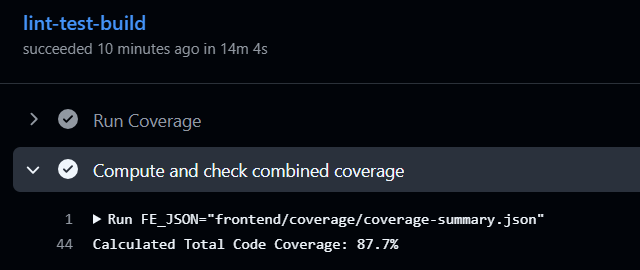
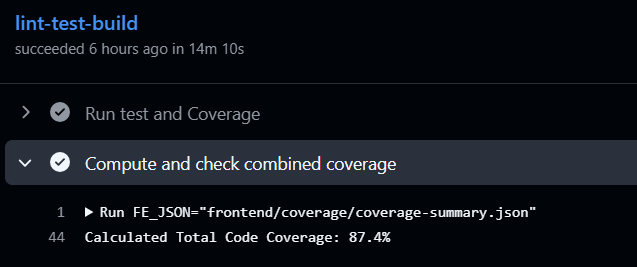
test: nfr testing update

diff --git a/docs/demo-4/SAS.md b/docs/demo-4/SAS.md
@@ -197,7 +197,7 @@ This pattern applies wherever an object behaves differently depending on what ph
 | **NFR3.3** | Use HTTPS (TLS 1.3) for all data transmission | Azure Container Apps Managed Certificates & SSL Termination | Qualys SSL Server Test | Grade A (TLS 1.3 Active) / Pass |
 | **NFR3.4** | Prevent unauthorized access to resources | HttpOnly JWT + Endpoint Claims Validation | xUnit (`AuthEndpointIntegrationTests`) | Test Passes / Pass |
 | **NFR4.1** | CI/CD pipeline completes within 30 minutes | Pipeline setup caching and IaC Pulumi deployment in CD | GitHub Actions Logs | < 30 mins / CI(<15 minutes) + CD(<10 minutes) |
-| **NFR4.2** | Automated line coverage of at least 80% | Extensive Testing policy | CI pipeline coverage check | ≥ 80% / 85.7% |
+| **NFR4.2** | Automated line coverage of at least 80% | Extensive Testing policy | CI pipeline coverage check | ≥ 80% / 87.4% line coverage |
 | **NFR5.1** | WCAG 2.1 AA Accessibility | Accessible UI Component Library & Tested Design Tokens | Google Lighthouse | ≥ 90% accessibility for all pages/ All pages are above 90% |
 
 ### NFR Testing Evidence
@@ -295,6 +295,27 @@ Profile
 
 Help menu
 ![Help menu](../images/nfr-testing/lighthouse-reports/help-menu.png)
+
+OptiClash Home page
+![OptiClash home page](../images/nfr-testing/lighthouse-reports/opticlash-homepage.png)
+
+OptiClash Leagues
+![OptiClash leagues page](../images/nfr-testing/lighthouse-reports/opticlash-leagues.png)
+
+OptiClash Arenas
+![OptiClash arenas page](../images/nfr-testing/lighthouse-reports/opticlash-arena.png)
+
+OptiClash View of all Duels 
+![OptiClash duels page](../images/nfr-testing/lighthouse-reports/opticlash-all-duels.png)
+
+OptiClash Duel
+![OptiClash duel page](../images/nfr-testing/lighthouse-reports/opticlash-duel.png)
+
+OptiClash Friends
+![OptiClash friends page](../images/nfr-testing/lighthouse-reports/opticlash-friends.png)
+
+OptiVision
+![OptiVision page](../images/nfr-testing/lighthouse-reports/optivision.png)
 
 
 ### Constraints
